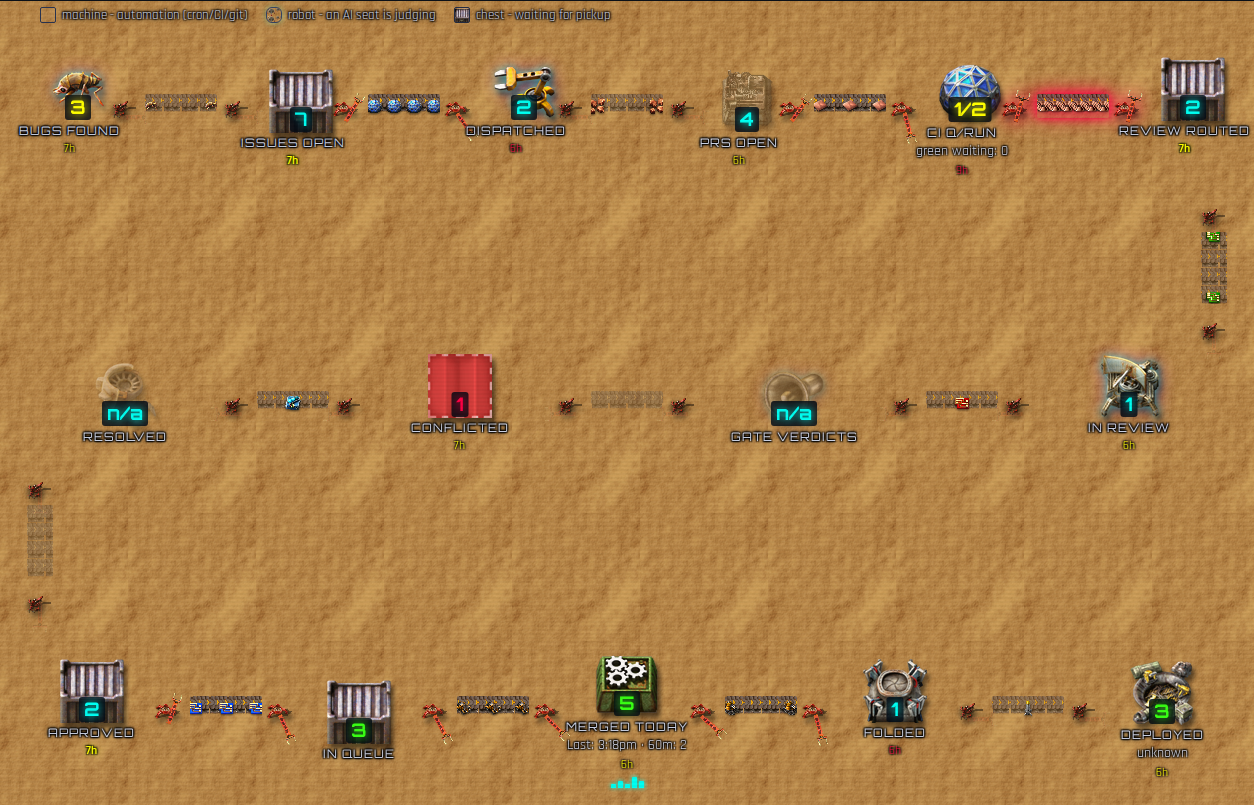
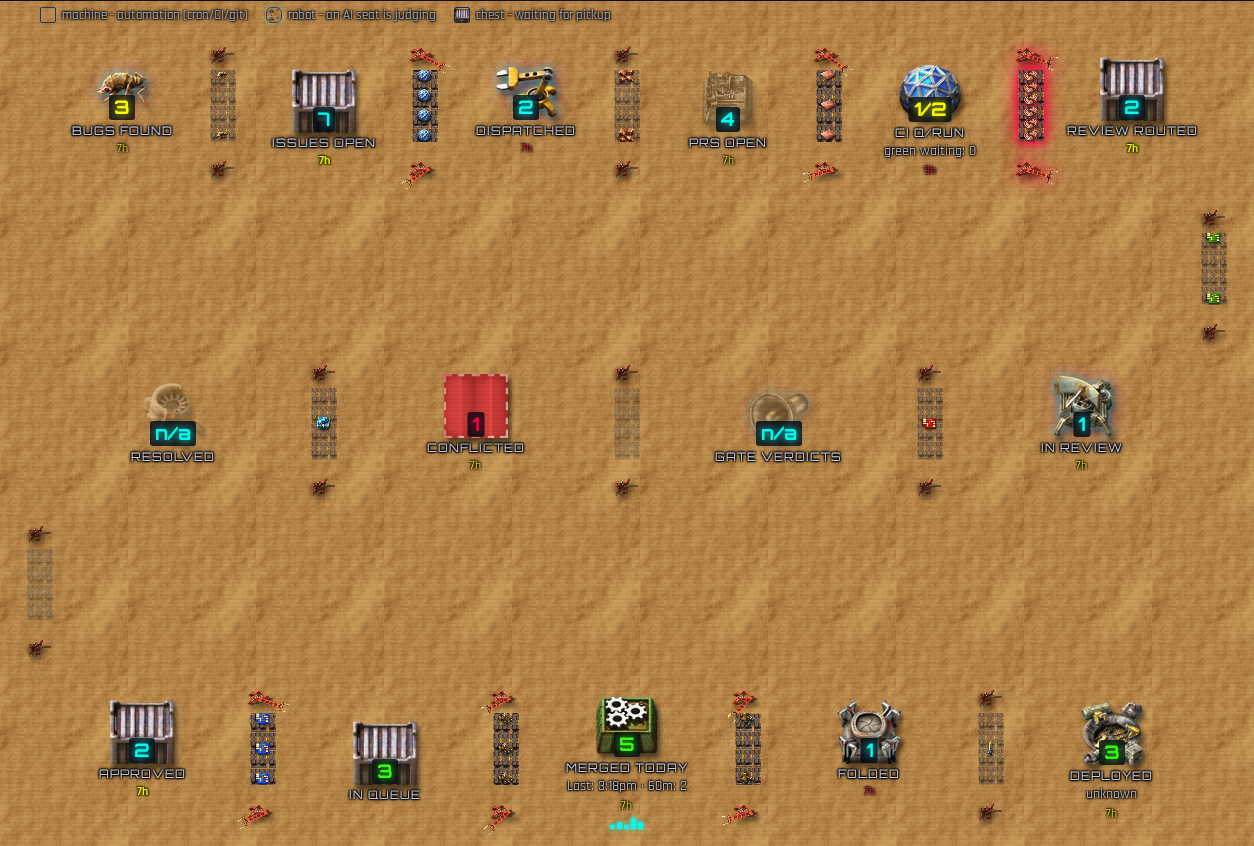
feat(monitor): all 14 belts run vertical, per Ben's own built reference
Ben custom-built a Factorio test rig (Screenshot 2026-09-11 at 9.56.18 PM)
showing a vertical belt bridging two side-by-side buildings, with both
inserters bending toward it - proving the boustrophedon row layout never
had to change for "belts run vertically." Only the belt segment WITHIN
each arrow slot needs to run top to bottom; the stages stay exactly where
they were.

- New .ship-arrow-vbelt class: same column-stacked inserter/belt/inserter
  layout as the existing row-turn .ship-arrow-vertical, but stays in the
  row's normal flex flow (not absolute) since it still connects two
  horizontally-adjacent stages, not two different rows.
- shipArrow's dirCls now picks vertical styling based on whether an
  elbowId is present (row-turn, absolute) or not (in-row, static).
- All 12 within-row shipArrow call sites now pass vertical=true, joining
  the 2 existing row-turn belts - all 14 arrows are vertical belts now.
- Side benefit: narrower arrow slots (38px vs 164px) pack the strip
  noticeably tighter, closing part of the density gap flagged in the
  reference-comparison writeup.

tests/dashboard-truth/factorio-belts-evidence.py: replaced the "2 vertical
belts, 12 horizontal" dimension check with "14 vertical belts (2 via
.ship-arrow-vertical, 12 via .ship-arrow-vbelt), every one taller than
wide"; replaced the horizontal-only belt-width floor check with a
belt-height floor check (48px) applied to .ship-belt-vertical, since no
[…]

diff --git a/queue_router.py b/queue_router.py
@@ -7590,6 +7590,14 @@ gap:1px;padding:0 2px;border:0;background:transparent;color:var(--arrow-color);c
    unloading inserter top to bottom. */
 .ship-arrow-vertical{position:absolute;flex-direction:column;flex:0 0 auto;height:auto;
 width:38px;gap:2px;padding:2px 0;z-index:4}
+/* Ben's own built reference (a vertical belt bridging two side-by-side
+   buildings, both inserters bending toward it) showed the row layout never
+   had to change for this - only the belt segment WITHIN each arrow slot
+   does. Same column stack as .ship-arrow-vertical above, but stays in the
+   row's normal flex flow (not absolute) since it connects two stages that
+   are still side by side, not two different rows. */
+.ship-arrow-vbelt{flex-direction:column;flex:0 0 auto;height:auto;
+width:38px;gap:2px;padding:2px 0;align-self:center}
 /* The belt itself: a scrolling texture tile carrying the order-17 item
    chain. State is rendered, never captioned - order 9's "hover is where the
    numbers live" (native title attr on the arrow, unchanged). LORE order 17
@@ -8719,7 +8727,7 @@ function shipArrow(square, glyph, arrow, description, legacyCount, width, isBott
     const backlogText = (backlog === null || backlog === undefined) ? 'unknown waiting' : backlog + ' waiting';
     const label = shipEscape(description + ': ' + rateText + ', ' + backlogText + ', ' + shipDrainText(drain));
     const tag = agentLane ? 'button' : 'span';
-    const dirCls = (dir === 'left' ? ' ship-arrow-left' : '') + (vertical ? ' ship-arrow-vertical' : '');
+    const dirCls = (dir === 'left' ? ' ship-arrow-left' : '') + (vertical ? (elbowId ? ' ship-arrow-vertical' : ' ship-arrow-vbelt') : '');
     // Six arrows (bugs found/dispatched/review routed/gate verdicts/conflicted/
     // resolved) have never had a formal rate/backlog instrument - only a plain
     // count via arrowLabel (e.g. "5", or "?"/"n/a" when unavailable). Parsed
@@ -9398,11 +9406,11 @@ function shipFlowHtml(d) {
             // LORE order 15: unknown bugs_found_24h renders 'n/a' (Round 3's
             // rule - never empty, never a bare '?') the same way gate_verdicts
             // and resolved already do.
-            shipStage(d.bugs_found_24h === null || d.bugs_found_24h === undefined ? 'n/a' : d.bugs_found_24h, 'bugs found', bugsCls, '', null, HELP.bugsFound, '', 'bugs-found', [], null, null, null, null, d.last_issue_created_at) + shipArrow('bugs found', '⚡', null, 'Issues created in the last 24h', null, null, false, String(d.bugs_found_24h ?? '?'), null, 'right') +
-            shipStage(d.issues_open, 'issues open', '', '', null, HELP.issues, '', null, null, null, shipIssuesRatePanel(sp.issues), null, arrowByKey['issues-prs'] && arrowByKey['issues-prs'].drain_label, d.last_issue_created_at) + shipArrow('issues open', '🤖', arrowByKey['issues-prs'], 'PRs opened in the last hour, from GitHub search - click for live agent lanes', null, wFor('issues-prs'), isB('issues-prs'), arrowByKey['issues-prs'] && arrowByKey['issues-prs'].label, null, 'right') +
-            shipStage(d.dispatched ?? null, 'dispatched', '', '', null, HELP.dispatched, '', 'dispatched', [], null, null, null, null, d.dispatched_last_at) + shipArrow('dispatched', '🤖', null, 'Live dispatched lanes', null, null, false, String(d.dispatched ?? '?'), null, 'right') +
-            shipStage(d.prs_open, 'prs open', '', prsOld.sub, null, HELP.prs + shipOldestWords('prs open', 'age of the oldest open, non-draft pull request'), prsOld.cls, null, null, null, shipHistorySpark(sp.prs, 'prs'), null, null, d.prs_open_last_at) + shipArrow('prs open', '⚙', arrowByKey['prs-ci'], 'Distinct PRs with a CI run started this hour, from the GitHub workflow-runs list', d.ci_queued, wFor('prs-ci'), isB('prs-ci'), null, null, 'right') +
-            shipStage(ciNum, 'ci q/run', ciCls, ciOld.sub, null, HELP.ciqr + shipOldestWords('ci q/run', 'how long the oldest queued run in the last 48 h has waited to start (since it was re-queued, if it was re-run)') + ' Green waiting: ' + greenWaitingText + ' PRs approved and green but not yet enqueued.' + greenWaitWords, ciOld.cls, null, null, null, shipHistorySpark(sp.ci, 'ci'), 'green waiting: ' + greenWaitingText + (greenSub ? ' · ' + greenSub : '') + (greenWaitSub ? ' · ' + greenWaitSub : ''), null, d.ci_last_run_started_at) + shipArrow('ci q/run', '⚙', arrowByKey['ci-green'], 'Distinct PRs with a green Pre-Merge Gate run this hour (workflow 255384592)', d.ci_running, wFor('ci-green'), isB('ci-green'), null, null, 'right') +
+            shipStage(d.bugs_found_24h === null || d.bugs_found_24h === undefined ? 'n/a' : d.bugs_found_24h, 'bugs found', bugsCls, '', null, HELP.bugsFound, '', 'bugs-found', [], null, null, null, null, d.last_issue_created_at) + shipArrow('bugs found', '⚡', null, 'Issues created in the last 24h', null, null, false, String(d.bugs_found_24h ?? '?'), null, 'right', true) +
+            shipStage(d.issues_open, 'issues open', '', '', null, HELP.issues, '', null, null, null, shipIssuesRatePanel(sp.issues), null, arrowByKey['issues-prs'] && arrowByKey['issues-prs'].drain_label, d.last_issue_created_at) + shipArrow('issues open', '🤖', arrowByKey['issues-prs'], 'PRs opened in the last hour, from GitHub search - click for live agent lanes', null, wFor('issues-prs'), isB('issues-prs'), arrowByKey['issues-prs'] && arrowByKey['issues-prs'].label, null, 'right', true) +
+            shipStage(d.dispatched ?? null, 'dispatched', '', '', null, HELP.dispatched, '', 'dispatched', [], null, null, null, null, d.dispatched_last_at) + shipArrow('dispatched', '🤖', null, 'Live dispatched lanes', null, null, false, String(d.dispatched ?? '?'), null, 'right', true) +
+            shipStage(d.prs_open, 'prs open', '', prsOld.sub, null, HELP.prs + shipOldestWords('prs open', 'age of the oldest open, non-draft pull request'), prsOld.cls, null, null, null, shipHistorySpark(sp.prs, 'prs'), null, null, d.prs_open_last_at) + shipArrow('prs open', '⚙', arrowByKey['prs-ci'], 'Distinct PRs with a CI run started this hour, from the GitHub workflow-runs list', d.ci_queued, wFor('prs-ci'), isB('prs-ci'), null, null, 'right', true) +
+            shipStage(ciNum, 'ci q/run', ciCls, ciOld.sub, null, HELP.ciqr + shipOldestWords('ci q/run', 'how long the oldest queued run in the last 48 h has waited to start (since it was re-queued, if it was re-run)') + ' Green waiting: ' + greenWaitingText + ' PRs approved and green but not yet enqueued.' + greenWaitWords, ciOld.cls, null, null, null, shipHistorySpark(sp.ci, 'ci'), 'green waiting: ' + greenWaitingText + (greenSub ? ' · ' + greenSub : '') + (greenWaitSub ? ' · ' + greenWaitSub : ''), null, d.ci_last_run_started_at) + shipArrow('ci q/run', '⚙', arrowByKey['ci-green'], 'Distinct PRs with a green Pre-Merge Gate run this hour (workflow 255384592)', d.ci_running, wFor('ci-green'), isB('ci-green'), null, null, 'right', true) +
             // 'review routed' is row 1's own end - LORE order 17 #3: the turn
             // to 'in review' at the start of row 2 is now a real vertical
             // belt (position:absolute, JS-synced - see positionShipElbows),
@@ -9418,14 +9426,14 @@ function shipFlowHtml(d) {
             // NEW decorative arrow (no formal rate instrument existed for this
             // transition either before or after the rebalance): in review was
             // previously row 1's own dead end and never needed one.
-            shipStage(d.in_review ?? null, 'in review', '', '', null, HELP.inReview, '', 'in-review', [], null, null, null, null, d.in_review_last_at) + shipArrow('in review', '👁', null, 'PRs currently under human/AI review', null, null, false, String(d.in_review ?? '?'), null, 'left') +
+            shipStage(d.in_review ?? null, 'in review', '', '', null, HELP.inReview, '', 'in-review', [], null, null, null, null, d.in_review_last_at) + shipArrow('in review', '👁', null, 'PRs currently under human/AI review', null, null, false, String(d.in_review ?? '?'), null, 'left', true) +
             // Round 3 (Elrond review, PR #35): gate_verdicts has been null
             // since PR #34 dropped statusCheckRollup - the same "I cannot
             // know this" status as 'resolved', so it renders 'n/a' the same
             // way (was rendering nothing at all - a stage with no number and
             // no n/a is its own, different, confusing state).
-            shipStage(d.gate_verdicts === null || d.gate_verdicts === undefined ? 'n/a' : d.gate_verdicts, 'gate verdicts', gateCls, '', null, HELP.gateVerdicts + ((d.gate_verdicts === null || d.gate_verdicts === undefined) && d.gate_verdicts_na_reason ? ' (' + d.gate_verdicts_na_reason + ')' : ''), '', 'gate-verdicts', [], null, null, null, null, d.gate_verdicts_last_at) + shipArrow('gate verdicts', '⛨', null, 'PRs with a non-passing gate-verdict check', null, null, false, String(d.gate_verdicts ?? '?'), null, 'left') +
-            shipStage(d.conflicted ?? null, 'conflicted', conflictCls, '', null, HELP.conflicted, '', 'conflicted', [], null, null, null, null, d.conflicted_last_at) + shipArrow('conflicted', '⚠', null, 'Open PRs with a merge conflict', null, null, false, String(d.conflicted ?? '?'), null, 'left') +
+            shipStage(d.gate_verdicts === null || d.gate_verdicts === undefined ? 'n/a' : d.gate_verdicts, 'gate verdicts', gateCls, '', null, HELP.gateVerdicts + ((d.gate_verdicts === null || d.gate_verdicts === undefined) && d.gate_verdicts_na_reason ? ' (' + d.gate_verdicts_na_reason + ')' : ''), '', 'gate-verdicts', [], null, null, null, null, d.gate_verdicts_last_at) + shipArrow('gate verdicts', '⛨', null, 'PRs with a non-passing gate-verdict check', null, null, false, String(d.gate_verdicts ?? '?'), null, 'left', true) +
+            shipStage(d.conflicted ?? null, 'conflicted', conflictCls, '', null, HELP.conflicted, '', 'conflicted', [], null, null, null, null, d.conflicted_last_at) + shipArrow('conflicted', '⚠', null, 'Open PRs with a merge conflict', null, null, false, String(d.conflicted ?? '?'), null, 'left', true) +
             // 'resolved' is row 2's own end - LORE order 17 #3: the turn to
             // 'approved' at the start of row 3 is now a real vertical belt
             // too, carrying item #10 (Speed Module 3).
@@ -9438,12 +9446,12 @@ function shipFlowHtml(d) {
             // SHIP-16-FIX: this used to feed the now-removed 'green waiting' square;
             // it now points straight at 'in line' - approved PRs move toward the
             // queue, and green-waiting's own count/age live as ci q/run's sub-line above.
-            shipStage(d.approved ?? null, 'approved', '', '', null, HELP.approved, '', 'approved', [], null, null, null, null, d.approved_last_at) + shipArrow('approved', '✅', arrowByKey['green-inline'], 'Approved PRs not yet merged', null, wFor('green-inline'), isB('green-inline'), null, null, 'right') +
-            shipStage(queueNum, 'in line', queueCls, queueSub, null, queueHelp, queueOld.cls, 'in-line', d.queue_prs, 'in queue', shipHistorySpark(sp.queue, 'queue'), null, null, null) + shipArrow('in line', '⚡', arrowByKey['inline-merged'], 'Merge queue entries', d.queue_depth, wFor('inline-merged'), isB('inline-merged'), null, null, 'right') +
-            shipStage(d.merged_today, 'merged today', 'ok', mergedSub, d.merged_spark, HELP.merged + shipOldestWords('merged today', 'minutes since the last merge'), mergedStage, 'merged-today', d.merged_today_prs, null, shipHistorySpark(sp.merged, 'merged'), null, null, d.last_merge_at) + shipArrow('merged today', '⚡', arrowByKey['merged-deploy'], 'Production deploy workflows in flight, or merge awaiting deploy', shipDeployCount(d), wFor('merged-deploy'), isB('merged-deploy'), null, null, 'right') +
+            shipStage(d.approved ?? null, 'approved', '', '', null, HELP.approved, '', 'approved', [], null, null, null, null, d.approved_last_at) + shipArrow('approved', '✅', arrowByKey['green-inline'], 'Approved PRs not yet merged', null, wFor('green-inline'), isB('green-inline'), null, null, 'right', true) +
+            shipStage(queueNum, 'in line', queueCls, queueSub, null, queueHelp, queueOld.cls, 'in-line', d.queue_prs, 'in queue', shipHistorySpark(sp.queue, 'queue'), null, null, null) + shipArrow('in line', '⚡', arrowByKey['inline-merged'], 'Merge queue entries', d.queue_depth, wFor('inline-merged'), isB('inline-merged'), null, null, 'right', true) +
+            shipStage(d.merged_today, 'merged today', 'ok', mergedSub, d.merged_spark, HELP.merged + shipOldestWords('merged today', 'minutes since the last merge'), mergedStage, 'merged-today', d.merged_today_prs, null, shipHistorySpark(sp.merged, 'merged'), null, null, d.last_merge_at) + shipArrow('merged today', '⚡', arrowByKey['merged-deploy'], 'Production deploy workflows in flight, or merge awaiting deploy', shipDeployCount(d), wFor('merged-deploy'), isB('merged-deploy'), null, null, 'right', true) +
             // NEW decorative arrow: folded->deployed had no arrow at all
             // before (it was the old row2/row3 break) - now within row 3.
-            shipStage(d.folded ?? null, 'folded', '', '', null, HELP.folded, '', 'folded', [], null, null, null, null, d.folded_last_at) + shipArrow('folded', '🚀', null, 'Deploy workflows folded into this run', null, null, false, String(d.folded ?? '?'), null, 'right') +
+            shipStage(d.folded ?? null, 'folded', '', '', null, HELP.folded, '', 'folded', [], null, null, null, null, d.folded_last_at) + shipArrow('folded', '🚀', null, 'Deploy workflows folded into this run', null, null, false, String(d.folded ?? '?'), null, 'right', true) +
             shipStage(noDeploy ? 'n/a' : (d.deployed_prs_today === null || d.deployed_prs_today === undefined ? '?' : d.deployed_prs_today), 'last deploy', 'ok', deployLastLine, null, (noDeploy ? 'no deploy workflow on ' + (d.repo_name || d.repo_full || 'this repo') : HELP.lastdep + shipOldestWords('last deploy', 'minutes since the last deploy, counted only while main has commits newer than it') + deployWords), deployStateCls, 'last-deploy', (d.deployed_prs_today_list || []).map(n => ({number:n,title:'deployed'})), 'deployed', shipHistorySpark(sp.deploy, 'deploy'), null, null, d.last_deploy_at);
 
         // Round 2 (Elrond review, PR #35, defect 3): the turns used to be a

diff --git a/tests/dashboard-truth/factorio-belts-evidence.py b/tests/dashboard-truth/factorio-belts-evidence.py
@@ -164,10 +164,12 @@ with sync_playwright() as p:
     assert page.locator('.ship-belt').count() == 14
     assert page.locator('.ship-belt-item').count() > 0
     assert page.locator('.ship-belt-backed-up').count() == 1
-    # Round 2 defect 4: belts must read as belts, not connector widgets - the
-    # brief's >=48px floor, with real margin above it.
-    belt_width = page.eval_on_selector('.ship-belt:not(.ship-belt-vertical)', 'el => el.getBoundingClientRect().width')
-    assert belt_width >= 64, belt_width
+    # Round 2 defect 4 / Ben's own built reference (all 14 belts now run
+    # vertical, per order 17 #3 below): belts must read as belts, not
+    # connector widgets - the brief's >=48px floor, applied to the belt's
+    # long axis (height, since every belt is now taller than wide).
+    belt_height = page.eval_on_selector('.ship-belt-vertical', 'el => el.getBoundingClientRect().height')
+    assert belt_height >= 48, belt_height
     # Round 2 defect 5: row 3 is no longer a lone square.
     assert page.locator('.ship-row-3 .ship-stage').count() == 5
 
@@ -197,18 +199,20 @@ with sync_playwright() as p:
         n = page.locator('.ship-arrow[data-square-left="' + square + '"] > .ship-inserter').count()
         assert n == 2, (square, 'expected 2 inserters, found', n)
 
-    # Order 17 #3 "belts run vertically": the two row-turn handoffs are
-    # taller than they are wide; every other belt stays horizontal (wider
-    # than tall).
+    # Order 17 #3 "belts run vertically": Ben's own built reference (a
+    # vertical belt bridging two side-by-side buildings, both inserters
+    # bending toward it) showed this doesn't require breaking the
+    # boustrophedon row layout at all - only the belt WITHIN each arrow slot
+    # needs to run top to bottom. All 14 belts are vertical (taller than
+    # wide): the 2 row-turn handoffs via the absolute-positioned
+    # `.ship-arrow-vertical` (bridging between rows), the other 12 via the
+    # in-row, normal-flow `.ship-arrow-vbelt` (still between two
+    # horizontally-adjacent stages in the same row).
     assert page.locator('.ship-arrow-vertical').count() == 2
-    for square in ('review routed', 'resolved'):
+    assert page.locator('.ship-arrow-vbelt').count() == 12
+    for square, _ in EXPECTED_CHAIN:
         b = page.locator('.ship-arrow[data-square-left="' + square + '"] .ship-belt').bounding_box()
         assert b['height'] > b['width'], (square, b)
-    for square, _ in EXPECTED_CHAIN:
-        if square in ('review routed', 'resolved'):
-            continue
-        b = page.locator('.ship-arrow[data-square-left="' + square + '"] .ship-belt').bounding_box()
-        assert b['width'] > b['height'], (square, b)
 
     # Round 2 (Elrond review, PR #35, defect 1): no stage may ever render a
     # bare '?' - it reads as indistinguishable from the no-data wreckage state
